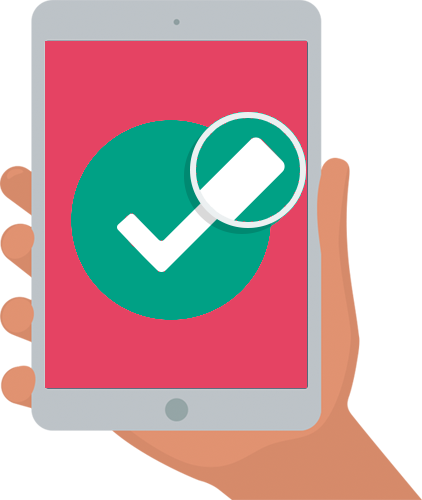
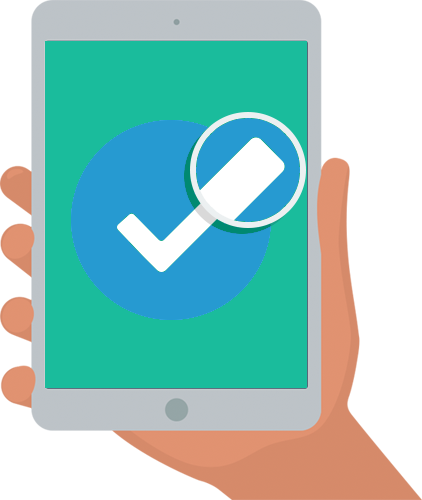
Final before integration with app

diff --git a/index.html b/index.html
@@ -43,7 +43,7 @@
 			<div class="row">
 				<div class="col-lg-6">
 					<h1>thoyo<br/>
-					thoughtfully yours...</h1>
+					<em>thoughtfully yours...</em></h1>
           <p>People you care about will never be left present-less through the thoyo list-maker app.
             This dynamic application allows you to save important information by person, search for distinctive gifts by their interests, and get reminders of upcoming dates.</p>
 					<form class="form-inline" role="form">
@@ -52,7 +52,7 @@
           <p> </p>
 				</div>
 				<div class="col-lg-6">
-					<img class="img-responsive" src="assets/img/ipad-hand.png" alt="">
+					<img class="img-responsive" src="assets/img/ipad-hand2.png" alt="">
 				</div>
 			</div>
 		</div>
@@ -68,19 +68,19 @@
 
 		<div class="row mt centered">
 			<div class="col-lg-4">
-				<img src="assets/img/remember.png" width="180" alt="">
+				<img src="assets/img/remember2.png" width="180" alt="">
 				<h4>remember</h4>
 				<p>Receive advanced notifications, so you never forget to be "thoughtfully yours" prior to important dates.</p>
 			</div>
 
 			<div class="col-lg-4">
-				<img src="assets/img/gift.png" width="180" alt="">
+				<img src="assets/img/gift2.png" width="180" alt="">
 				<h4>gifts</h4>
 				<p>Ignore the box stores and get something unique that supports small businesses and craft.</p>
 			</div>
 
 			<div class="col-lg-4">
-				<img src="assets/img/save.png" width="180" alt="">
+				<img src="assets/img/save3.png" width="180" alt="">
 				<h4>conveniently</h4>
 				<p>Record names, interests, addresses and dates, such as birthdays and anniversaries, in one central space.</p>
 			</div>
